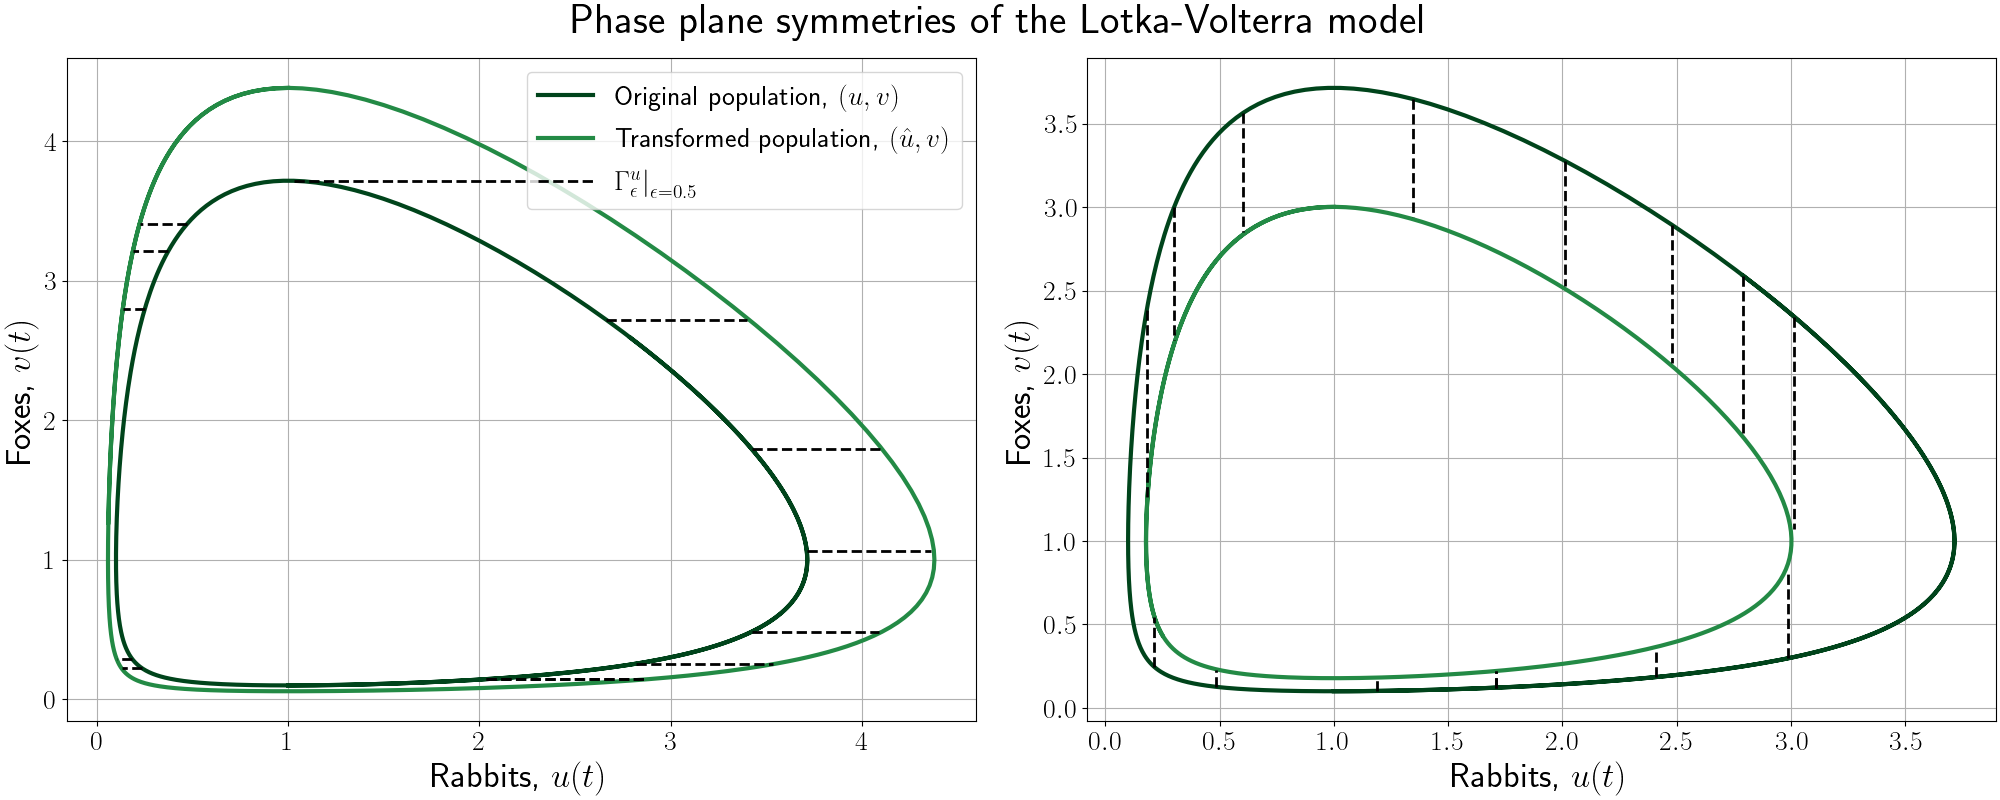
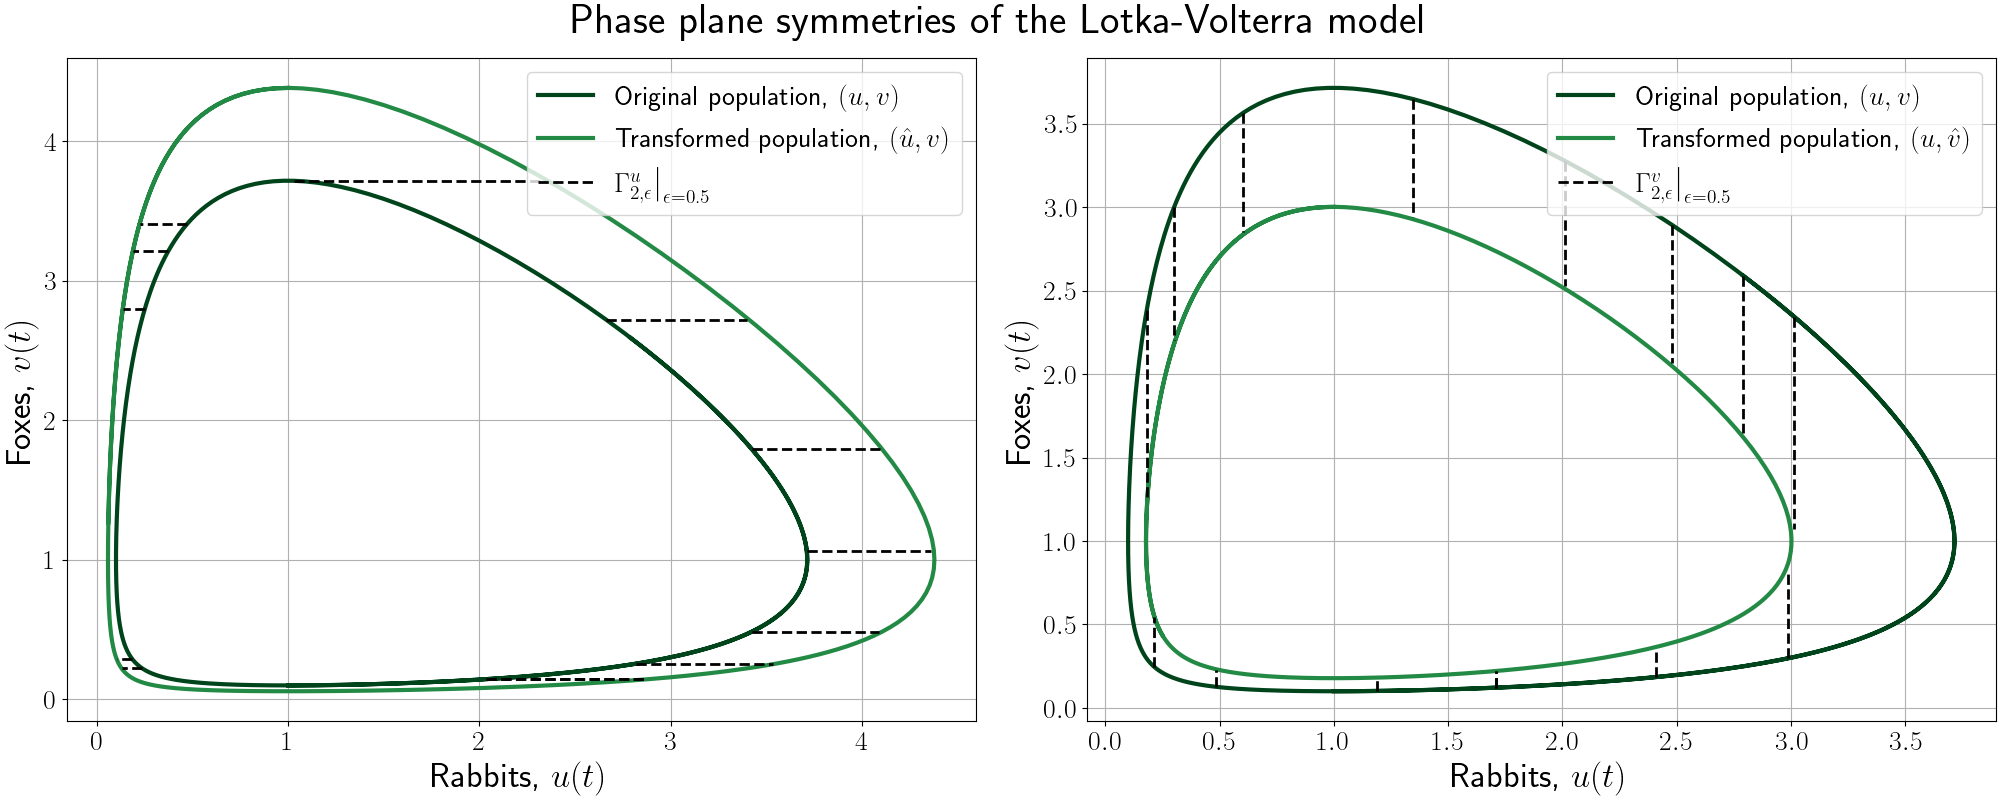
Fix legend for the phase plane symmetry

Changed region(s): [[0.775, 0.0938, 0.992, 0.2812], [0.31, 0.2188, 0.341, 0.25], [0.279, 0.25, 0.31, 0.2812]]

diff --git a/Code/LV.py b/Code/LV.py
@@ -88,7 +88,7 @@ ax_1[0].plot(u, v, '-', label='Original population, $(u,v)$',
 ax_1[0].plot(u_transformed_2, v_transformed_2, '-',
              label='Transformed population, $(\\hat{u},v)$', color=(35/256,139/256,69/256), linewidth=3.0)
 ax_1[0].plot(asarray(u_sym[0]), asarray([v[u_indices[0]]*(index+1)/(index+1) for index in range(len(epsilon_vec))]), '--',
-             label="$\\left.\\Gamma_{\\epsilon}^{u}\\right|_{\\epsilon=" + str(epsilon) + "}$", color=(0, 0, 0), linewidth=2.0)
+             label="$\\left.\\Gamma_{2,\\epsilon}^{u}\\right|_{\\epsilon=" + str(epsilon) + "}$", color=(0, 0, 0), linewidth=2.0)
 for index, u_index in enumerate(list(u_indices)):
     ax_1[0].plot(asarray(u_sym[index]), asarray([v[u_index]*((index+1)/(index+1))
                                                  for index in range(len(epsilon_vec))]), '--', color=(0, 0, 0), linewidth=2.0)
@@ -100,11 +100,12 @@ ax_1[1].plot(u, v, '-', label='Original population, $(u,v)$',
 ax_1[1].plot(u_transformed, v_transformed, '-',
              label='Transformed population, $(u,\\hat{v})$', color=(35/256,139/256,69/256), linewidth=3.0)
 ax_1[1].plot(asarray([u[v_indices[0]]*((index+1)/(index+1)) for index in range(len(epsilon_vec))]), asarray(v_sym[0]),
-             '--', label="$\\left.\\Gamma_{\\epsilon}^{v}\\right|_{\\epsilon=" + str(epsilon) + "}$", color=(0, 0, 0), linewidth=2.0)
+             '--', label="$\\left.\\Gamma_{2,\\epsilon}^{v}\\right|_{\\epsilon=" + str(epsilon) + "}$", color=(0, 0, 0), linewidth=2.0)
 for index, v_index in enumerate(list(v_indices)):
     ax_1[1].plot(asarray([u[v_index]*((index+1)/(index+1)) for index in range(len(epsilon_vec))]),
                  asarray(v_sym[index]), '--', color=(0, 0, 0), linewidth=2.0)
 ax_1[1].grid()
+ax_1[1].legend(loc='best', prop={"size": 20})
 #ax_1[1].legend(loc='best', prop={"size": 20})
 # Set fontsize of labels
 ax_1[0].set_xlabel(xlabel='Rabbits, $u(t)$', fontsize=25)
@@ -227,20 +228,6 @@ u_2_u = concatenate((flip(u_2_start,0), u_2), axis=0)
 v_2_u = concatenate((flip(v_2_start,0), v_2), axis=0)
 t_2_u = concatenate((flip(t_2_start,0), t_2), axis=0)
 # Plot the symmetry again for some other point on the solution curves
-#---------------------------------------------------------------------------------
-# Illustrative example 1
-#magical_indices = [250]
-#delta_t_forward_vec = [0] # Correct
-#delta_t_backward_vec = [1] # Correct
-#delta_t_forward_vec = [1] # Incorrect
-#delta_t_backward_vec = [0] # Incorrect
-#---------------------------------------------------------------------------------
-# Illustrative example 2
-#magical_indices = [275]
-#delta_t_forward_vec = [0] # Incorrect
-#delta_t_backward_vec = [1] # Incorrect
-#delta_t_forward_vec = [1] # Correct
-#delta_t_backward_vec = [0] # Correct
 # #---------------------------------------------------------------------------------
 # Full design
 magical_indices = [25, 75, 125, 175, 200, 225, 250, 275, 300, 350, 400, 450, 500, 550, 600, 650, 700, 775, 800, 850, 875, 900]
@@ -342,13 +329,6 @@ u_2_start, v_2_start = X2_start.T
 u_2_v = concatenate((flip(u_2_start,0), u_2), axis=0)
 v_2_v = concatenate((flip(v_2_start,0), v_2), axis=0)
 t_2_v = concatenate((flip(t_2_start,0), t_2), axis=0)
-
-#---------------------------------------------------------------------------------
-# Illustrative example 2
-#magical_indices_v = [240]
-#delta_t_forward_vec = [0] 
-#delta_t_backward_vec = [0.2] 
-# #---------------------------------------------------------------------------------
 #---------------------------------------------------------------------------------
 # Plot the symmetry again for some other point on the solution curves
 magical_indices_v = [100, 115, 128, 213, 220, 240, 275, 300, 325, 645, 700, 750, 800, 850, 900]
